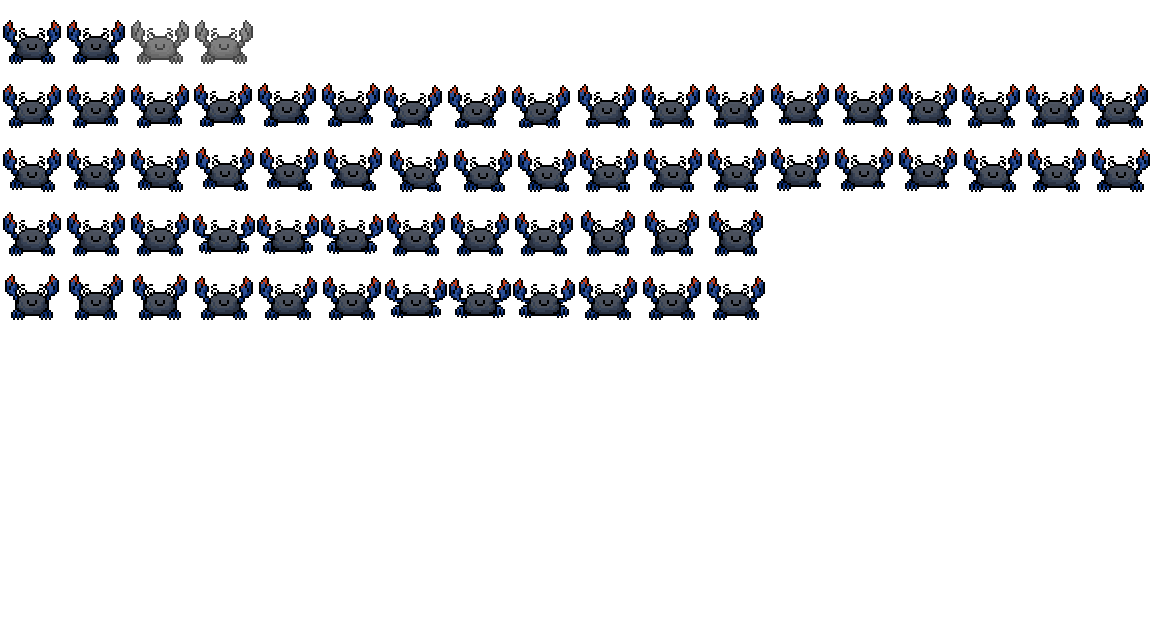
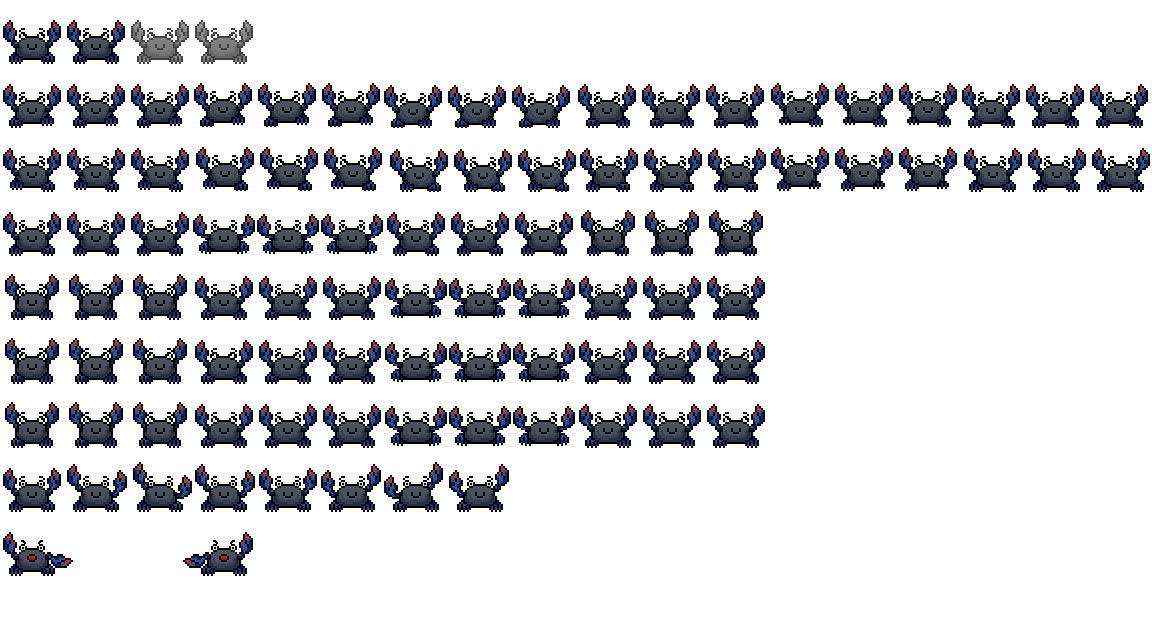
More Animations

diff --git a/TunedBeta/src/object/Critter.java b/TunedBeta/src/object/Critter.java
@@ -63,6 +63,7 @@ public class Critter extends GameObject {
 	int actionFrameNum = 0;
 	int movementFrameNum = 0;
 	int movementFrameNum2 = 0;
+	int movementFrameNum3 = 0;
 	int currentAnimation = 0; // 0 Idle 1 Left Walk 2 Right Walk 3 Swim Up 4
 								// Swim Down 5 Swim Left 6 Swim Right 7
 								// Attack/Interact
@@ -101,28 +102,6 @@ public class Critter extends GameObject {
 
 	@Override
 	public void tick(LinkedList<GameObject> object) {
-
-//		if (inWater) {
-//			if (velX == 0) {
-//				currentAnimation = 0;
-//			} else if (velY > 0) {
-//				currentAnimation = 3;
-//			} else if (velY < 0) {
-//				currentAnimation = 4;
-//			} else {
-//				currentAnimation = 0;
-//			}
-//		} else {
-//			if (velX == 0) {
-//				currentAnimation = 0;
-//			} else if (velX < 0) {
-//				currentAnimation = 1;
-//			} else if (velX > 0) {
-//				currentAnimation = 2;
-//			}  else {
-//				currentAnimation = 0;
-//			}
-//		} 
 
 		// Character Physics
 		x += velX;
@@ -174,6 +153,7 @@ public class Critter extends GameObject {
 
 		movementFrameNum = (movementFrameNum + 1) % images.getMoveFrames();
 		movementFrameNum2 = (movementFrameNum2 + 1) % images.getSwimFrames();
+		movementFrameNum3 = (movementFrameNum3 + 1) % images.getInteractFrames();
 
 		// Character Flickering & Normal
 		if (flicker == 0 || flicker % 10 == 0) {
@@ -203,6 +183,25 @@ public class Critter extends GameObject {
 					g.drawImage(images.getBlueCrabImage(currentAnimation, movementFrameNum2), (int) x - 16, (int) y - 32,
 							game);
 					break;
+				case 5:
+					g.drawImage(images.getBlueCrabImage(currentAnimation, movementFrameNum2), (int) x - 16, (int) y - 32,
+							game);
+					break;
+				case 6:
+					g.drawImage(images.getBlueCrabImage(currentAnimation, movementFrameNum2), (int) x - 16, (int) y - 32,
+							game);
+					break;
+				case 7:
+					g.drawImage(images.getBlueCrabImage(currentAnimation, movementFrameNum3), (int) x - 16, (int) y - 32,
+							game);
+					break;
+				case 8:
+					if (right) {
+						g.drawImage(images.getBlueCrabImage(currentAnimation, 0), (int) x - 16, (int) y - 32, game);
+					} else {
+						g.drawImage(images.getBlueCrabImage(currentAnimation, 1), (int) x - 16 - 64, (int) y - 32, game);
+					}
+					break;
 				}
 				break;
 			case 1:
@@ -231,7 +230,7 @@ public class Critter extends GameObject {
 		// g.fillRect((int) x, (int) y, 32, 32);
 
 		// Character Inner Bounds
-		Graphics2D g2d = (Graphics2D) g;
+//		Graphics2D g2d = (Graphics2D) g;
 		// g.setColor(Color.green);
 		// g2d.draw(getBoundsTop());
 		// g2d.draw(getBoundsBottom());
@@ -239,23 +238,23 @@ public class Critter extends GameObject {
 		// g2d.draw(getBoundsRight());
 
 		// Character Attack Range Bounds
-		g.setColor(Color.gray);
-		g2d.draw(getBounds());
+//		g.setColor(Color.gray);
+//		g2d.draw(getBounds());
 
 		// Character Name
 		g.setColor(Color.WHITE);
 		switch (character) {
 		case 0:
-			g.drawString("Blue Crab", (int) x - 10, (int) y - 10);
+			g.drawString("Blue Crab", (int) x - 10, (int) y - 18);
 			break;
 		case 1:
-			g.drawString("Eastern Oyster", (int) x - 22, (int) y - 10);
+			g.drawString("Eastern Oyster", (int) x - 22, (int) y - 18);
 			break;
 		case 2:
-			g.drawString("Horseshoe Crab", (int) x - 26, (int) y - 10);
+			g.drawString("Horseshoe Crab", (int) x - 26, (int) y - 18);
 			break;
 		default:
-			g.drawString("Debug Godmode", (int) x - 24, (int) y - 10);
+			g.drawString("Debug Godmode", (int) x - 24, (int) y - 18);
 			break;
 		}
 
@@ -315,6 +314,7 @@ public class Critter extends GameObject {
 	}
 
 	public void setBuildAnimation(boolean planting) {
+		setAnimation(7);
 		if (planting)
 			plantAction = true;
 		else
@@ -322,6 +322,7 @@ public class Critter extends GameObject {
 	}
 
 	public void endAnimation() {
+		setAnimation(0);
 		plantAction = false;
 		buildAction = false;
 	}

diff --git a/TunedBeta/src/gfx/Images.java b/TunedBeta/src/gfx/Images.java
@@ -45,7 +45,7 @@ public class Images {
 		}
 		
 		// Entities
-		blueCrab = new BufferedImage[5][walkFrameCount];
+		blueCrab = new BufferedImage[9][walkFrameCount];
 		for (int i = 0; i < 4; i++) {
 			BufferedImage img = createImage("entities/BlueCrab.png");
 			blueCrab[0][i] = img.getSubimage(64 * i, 0, 64, 64);
@@ -65,6 +65,22 @@ public class Images {
 		for (int i = 0; i < swimFrameCount; i++) {
 			BufferedImage img = createImage("entities/BlueCrab.png");
 			blueCrab[4][i] = img.getSubimage(64 * i, 256, 64, 64);
+		}
+		for (int i = 0; i < swimFrameCount; i++) {
+			BufferedImage img = createImage("entities/BlueCrab.png");
+			blueCrab[5][i] = img.getSubimage(64 * i, 320, 64, 64);
+		}
+		for (int i = 0; i < swimFrameCount; i++) {
+			BufferedImage img = createImage("entities/BlueCrab.png");
+			blueCrab[6][i] = img.getSubimage(64 * i, 384, 64, 64);
+		}
+		for (int i = 0; i < 8; i++) {
+			BufferedImage img = createImage("entities/BlueCrab.png");
+			blueCrab[7][i] = img.getSubimage(64 * i, 448, 64, 64);
+		}
+		for (int i = 0; i < 2; i++) {
+			BufferedImage img = createImage("entities/BlueCrab.png");
+			blueCrab[8][i] = img.getSubimage(128 * i, 512, 128, 64);
 		}
 
 		// Miscellaneous
@@ -145,6 +161,10 @@ public class Images {
 	
 	public int getMoveFrames(){
 		return 18;
+	}
+	
+	public int getInteractFrames(){
+		return 8;
 	}
 
 }

diff --git a/TunedBeta/src/framework/KeyInput.java b/TunedBeta/src/framework/KeyInput.java
@@ -28,11 +28,17 @@ public class KeyInput extends KeyAdapter {
 					Critter t = (Critter) temp;
 					if (key == KeyEvent.VK_A) {
 						t.setVelX(-2);
-						t.setAnimation(1);
+						if(t.getInWater())
+							t.setAnimation(5);
+						else
+							t.setAnimation(1);
 					}
 					if (key == KeyEvent.VK_D) {
 						t.setVelX(2);
-						t.setAnimation(2);
+						if(t.getInWater())
+							t.setAnimation(6);
+						else
+							t.setAnimation(2);
 					}
 					if (key == KeyEvent.VK_W && !t.jump) {
 						t.setVelY(-2);
@@ -51,7 +57,9 @@ public class KeyInput extends KeyAdapter {
 					if (key == KeyEvent.VK_S && t.getInWater()) {
 						t.setAnimation(4);
 					}
-
+					if (key == KeyEvent.VK_SPACE) {
+						t.setAnimation(8);
+					}
 				}
 			}
 		}
@@ -97,6 +105,7 @@ public class KeyInput extends KeyAdapter {
 					// Attack
 					if (key == KeyEvent.VK_SPACE) {
 						t.attack(handler.object);
+						t.setAnimation(0);
 					}
 					// Change Characters
 					if (key == KeyEvent.VK_E) {
